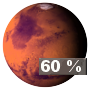
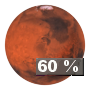
- Fix resources not been update on upgrade/build - Add another fix to db deadlock (aka the random bug) - Update planet image - Ensure export script exports the faction_unit_types overrides

diff --git a/business/src/test/java/com/kevinguanchedarias/owgejava/business/MissionBoTest.java b/business/src/test/java/com/kevinguanchedarias/owgejava/business/MissionBoTest.java
@@ -10,6 +10,7 @@ import com.kevinguanchedarias.owgejava.business.unit.ObtainedUnitEventEmitter;
 import com.kevinguanchedarias.owgejava.business.unit.obtained.ObtainedUnitBo;
 import com.kevinguanchedarias.owgejava.business.unit.obtained.ObtainedUnitImprovementCalculationService;
 import com.kevinguanchedarias.owgejava.business.user.UserEnergyServiceBo;
+import com.kevinguanchedarias.owgejava.business.user.UserEventEmitterBo;
 import com.kevinguanchedarias.owgejava.business.user.UserSessionService;
 import com.kevinguanchedarias.owgejava.business.util.TransactionUtilService;
 import com.kevinguanchedarias.owgejava.dto.RunningUnitBuildDto;
@@ -113,7 +114,8 @@ import static org.mockito.Mockito.*;
         UserStorageRepository.class,
         MissionEventEmitterBo.class,
         MissionCancelBuildService.class,
-        MissionBaseService.class
+        MissionBaseService.class,
+        UserEventEmitterBo.class
 })
 class MissionBoTest {
     private final MissionBo missionBo;
@@ -147,6 +149,7 @@ class MissionBoTest {
     private final MissionCancelBuildService missionCancelBuildService;
     private final AsyncRunnerBo asyncRunnerBo;
     private final ObtainedUnitEventEmitter obtainedUnitEventEmitter;
+    private final UserEventEmitterBo userEventEmitterBo;
 
     @Autowired
     public MissionBoTest(
@@ -179,7 +182,8 @@ class MissionBoTest {
             MissionBaseService missionBaseService,
             MissionCancelBuildService missionCancelBuildService,
             AsyncRunnerBo asyncRunnerBo,
-            ObtainedUnitEventEmitter obtainedUnitEventEmitter
+            ObtainedUnitEventEmitter obtainedUnitEventEmitter,
+            UserEventEmitterBo userEventEmitterBo
     ) {
         this.missionBo = missionBo;
         this.planetBo = planetBo;
@@ -212,6 +216,7 @@ class MissionBoTest {
         this.missionCancelBuildService = missionCancelBuildService;
         this.asyncRunnerBo = asyncRunnerBo;
         this.obtainedUnitEventEmitter = obtainedUnitEventEmitter;
+        this.userEventEmitterBo = userEventEmitterBo;
     }
 
     @Test
@@ -329,6 +334,7 @@ class MissionBoTest {
         verify(entityManager, times(1)).refresh(saved);
         verify(socketIoService, times(1)).sendMessage(eq(user), eq(MissionBo.RUNNING_UPGRADE_CHANGE), any());
         verify(missionEventEmitterBo, times(1)).emitMissionCountChange(USER_ID_1);
+        verify(userEventEmitterBo, times(1)).emitUserData(user);
     }
 
     @Test
@@ -428,6 +434,7 @@ class MissionBoTest {
         verify(missionEventEmitterBo, times(1)).emitMissionCountChange(USER_ID_1);
         verify(missionEventEmitterBo, times(1)).emitUnitBuildChange(USER_ID_1);
         verify(unitTypeBo, times(1)).emitUserChange(USER_ID_1);
+        verify(userEventEmitterBo, times(1)).emitUserData(user);
     }
 
     @ParameterizedTest

diff --git a/business/src/main/java/com/kevinguanchedarias/owgejava/business/MissionBo.java b/business/src/main/java/com/kevinguanchedarias/owgejava/business/MissionBo.java
@@ -8,6 +8,7 @@ import com.kevinguanchedarias.owgejava.business.unit.ObtainedUnitEventEmitter;
 import com.kevinguanchedarias.owgejava.business.unit.obtained.ObtainedUnitBo;
 import com.kevinguanchedarias.owgejava.business.unit.obtained.ObtainedUnitImprovementCalculationService;
 import com.kevinguanchedarias.owgejava.business.user.UserEnergyServiceBo;
+import com.kevinguanchedarias.owgejava.business.user.UserEventEmitterBo;
 import com.kevinguanchedarias.owgejava.business.user.UserSessionService;
 import com.kevinguanchedarias.owgejava.business.user.listener.UserDeleteListener;
 import com.kevinguanchedarias.owgejava.business.util.TransactionUtilService;
@@ -81,6 +82,7 @@ public class MissionBo implements UserDeleteListener {
     private final ImprovementBo improvementBo;
     private final MissionSchedulerService missionSchedulerService;
     private final MissionBaseService missionBaseService;
+    private final UserEventEmitterBo userEventEmitterBo;
 
     @EventListener(ApplicationReadyEvent.class)
     public void onApplicationReady() {
@@ -149,6 +151,7 @@ public class MissionBo implements UserDeleteListener {
             entityManager.refresh(mission);
             emitRunningUpgrade(user);
             emitMissionCountChange(userId);
+            userEventEmitterBo.emitUserData(user);
         });
     }
 
@@ -253,6 +256,7 @@ public class MissionBo implements UserDeleteListener {
             emitMissionCountChange(userId);
             missionEventEmitterBo.emitUnitBuildChange(userId);
             unitTypeBo.emitUserChange(userId);
+            userEventEmitterBo.emitUserData(user);
         });
 
         return new RunningUnitBuildDto(unit, mission, planetBo.findById(planetId), finalCount);

diff --git a/business/src/test/java/com/kevinguanchedarias/owgejava/business/mysql/MysqlLockUtilServiceTest.java b/business/src/test/java/com/kevinguanchedarias/owgejava/business/mysql/MysqlLockUtilServiceTest.java
@@ -85,12 +85,12 @@ class MysqlLockUtilServiceTest {
 
         verify(jdbcTemplate, times(1)).execute(eq(EXPECTED_SQL_FOR_LOCK), any(PreparedStatementCallback.class));
         verify(jdbcTemplate, times(1)).execute(eq(EXPECTED_SQL_FOR_RELEASE_LOCK), any(PreparedStatementCallback.class));
-        verify(preparedStatementMockForLock, times(1)).setString(1, KEY_1);
+        verify(preparedStatementMockForLock, times(1)).setString(1, KEY_2);
         verify(preparedStatementMockForLock, times(1)).setInt(2, TIMEOUT_SECONDS);
-        verify(preparedStatementMockForLock, times(1)).setString(3, KEY_2);
+        verify(preparedStatementMockForLock, times(1)).setString(3, KEY_1);
         verify(preparedStatementMockForLock, times(1)).setInt(4, TIMEOUT_SECONDS);
-        verify(preparedStatementMockForReleaseLock, times(1)).setString(1, KEY_1);
-        verify(preparedStatementMockForReleaseLock, times(1)).setString(2, KEY_2);
+        verify(preparedStatementMockForReleaseLock, times(1)).setString(1, KEY_2);
+        verify(preparedStatementMockForReleaseLock, times(1)).setString(2, KEY_1);
     }
 
     @CsvSource({

diff --git a/business/src/main/java/com/kevinguanchedarias/owgejava/business/mysql/MysqlLockUtilService.java b/business/src/main/java/com/kevinguanchedarias/owgejava/business/mysql/MysqlLockUtilService.java
@@ -27,7 +27,7 @@ public class MysqlLockUtilService {
         if (keys.isEmpty()) {
             runnable.run();
         } else {
-            var keysAsList = keys.stream().toList();
+            var keysAsList = keys.stream().sorted().toList();
             var commandLambda = (PreparedStatementCallback<Object>) ps -> {
                 generateBindParams(keysAsList, ps);
                 return null;

diff --git a/tools/0.x.x/export_world.php b/tools/0.x.x/export_world.php
@@ -8,6 +8,7 @@ const TABLES_TO_EXPORT = [
     'critical_attack',
     'critical_attack_entries',
     'factions',
+    'factions_unit_types',
     'faction_spawn_location',
     'galaxies',
     'images_store',
